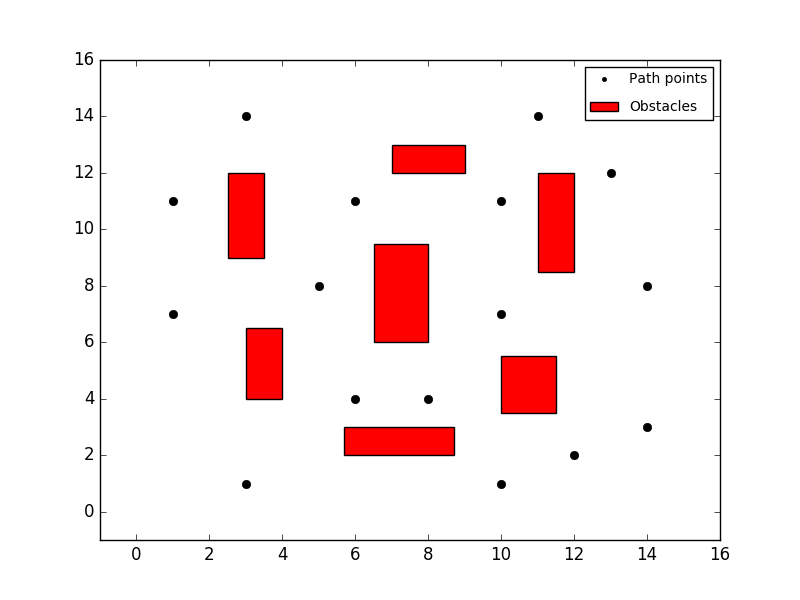
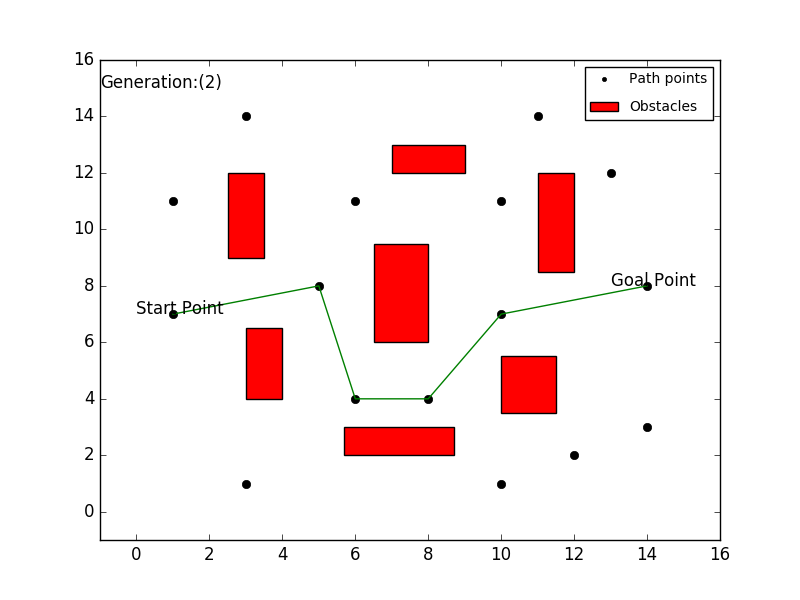
show_plot function added in draw_plot file, Gif added in README file

diff --git a/tools/draw_plot.py b/tools/draw_plot.py
@@ -2,27 +2,26 @@ from config import Config
 import matplotlib.pyplot as plt
 
 
-def draw_plot():
+def show_plot(best_chromosome):
 
     plt.figure(num=1)
     plt.clf()
-    plt.axis([-1.0, 16.0, -1.0, 16.0])
+    plt.axis([Config.plt_ax_x_min, Config.plt_ax_x_max, Config.plt_ax_y_min,
+        Config.plt_ax_y_max])
 
     _draw_path_points()
     _draw_obstacles()
 
-    plt.draw()
-    plt.savefig("./docs/images/"+str(Config.img_iter_no)+".png")
-    Config.img_iter_no += 1
-    plt.pause(0.01)
-
-
-def draw_best_path(best_chromosome):
-
-    draw_plot()
-
     best_path_x = []
     best_path_y = []
+
+    plt.annotate('Start Point', xy=(Config.path_points[int(best_chromosome[0])][0] 
+        + Config.plt_tolerance, Config.path_points[int(best_chromosome[0])][1]))
+    plt.annotate('Goal Point', xy=(Config.path_points[int(best_chromosome[-1])][0]
+        + Config.plt_tolerance, Config.path_points[int(best_chromosome[-1])][1]))
+
+    plt.text(x=Config.plt_ax_x_min, y=Config.plt_ax_y_max + Config.plt_tolerance, 
+        s='Generation:(%s)'%(Config.generations))
 
     for element in best_chromosome:
 

diff --git a/main.py b/main.py
@@ -13,7 +13,7 @@ from tools.population import population
 from tools.fitness import fitness
 from tools.ranking import ranking
 from tools.dna import dna
-from tools.draw_plot import draw_plot, draw_best_path
+from tools.draw_plot import show_plot
 
 from config import Config
 
@@ -30,8 +30,6 @@ def main():
     chr_crossover_mutated_population = dna(chr_pop_fitness=chr_pop_fitness,
         ranked_population=chr_ranked_population, chr_best_fitness_index=
         chr_best_fitness_index, init_pop=initial_chr_population)
-
-    draw_plot()
 
     while not Config.stop_generation:
 
@@ -55,10 +53,9 @@ def main():
         if Config.stop_criteria >= 5:
             Config.stop_generation = True
 
-        print("Generations:", Config.generations)
         print("Best chromosome is:", chr_crossover_mutated_population[chr_best_fitness_index[0]])
 
-        draw_best_path(best_chromosome=chr_crossover_mutated_population[0])
+        show_plot(best_chromosome=chr_crossover_mutated_population[0])
         Config.generations += 1
 
 if __name__ == '__main__':

diff --git a/config/Config.py b/config/Config.py
@@ -5,7 +5,7 @@ path_points = [[1, 7], [1, 11], [3, 14], [3, 1], [5, 8], [6, 11], [6, 4], [
     8, 4], [10, 1], [10, 7], [10, 11], [11, 14], [13, 12], [12, 2], [14, 3], [14, 8]]
 npts = len(path_points)
 pop_max = 1000
-mutation_rate = 0.001
+mutation_rate = 0.01
 start_index = int(0)
 end_index = npts - 1
 generations = 1
@@ -16,6 +16,11 @@ chr_len = int(((nobs+2)*nbits)/nbits)
 stop_criteria = 0
 stop_generation = False
 img_iter_no = 1
+plt_tolerance = -1
+plt_ax_x_min = -1.0
+plt_ax_x_max = 16.0
+plt_ax_y_min = -1
+plt_ax_y_max = 16.0
 
 
 def define_links():

diff --git a/README.md b/README.md
@@ -1,6 +1,6 @@
 # Python implementation of Genetic Algorithm in Path Planning
 
-![best_path_demo](https://user-images.githubusercontent.com/37571161/58585237-97ba6000-8271-11e9-9a13-015e47b80e7b.png)
+![GA_path_planning](https://user-images.githubusercontent.com/37571161/58662732-51820100-8344-11e9-97fb-a66e6e1cc877.gif)
 
 ## Running instruction:
 - Run the main.py file from directory. 
